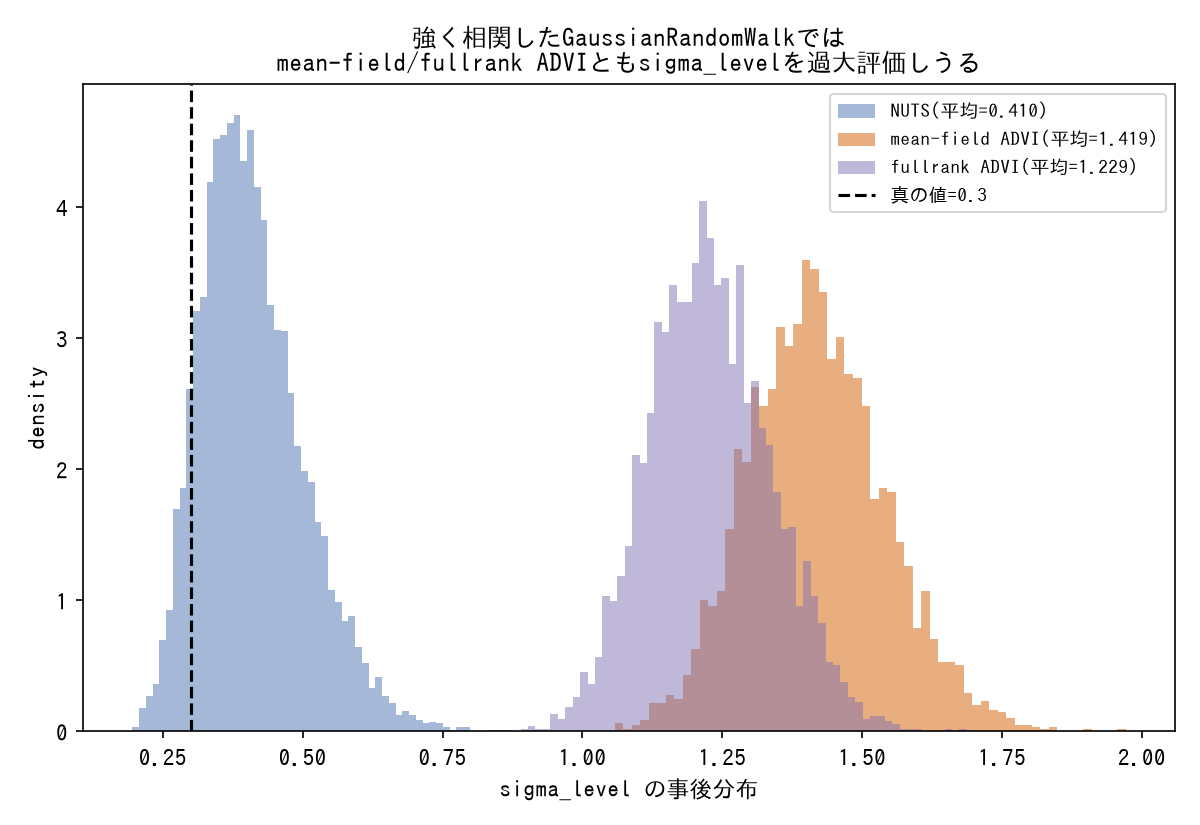
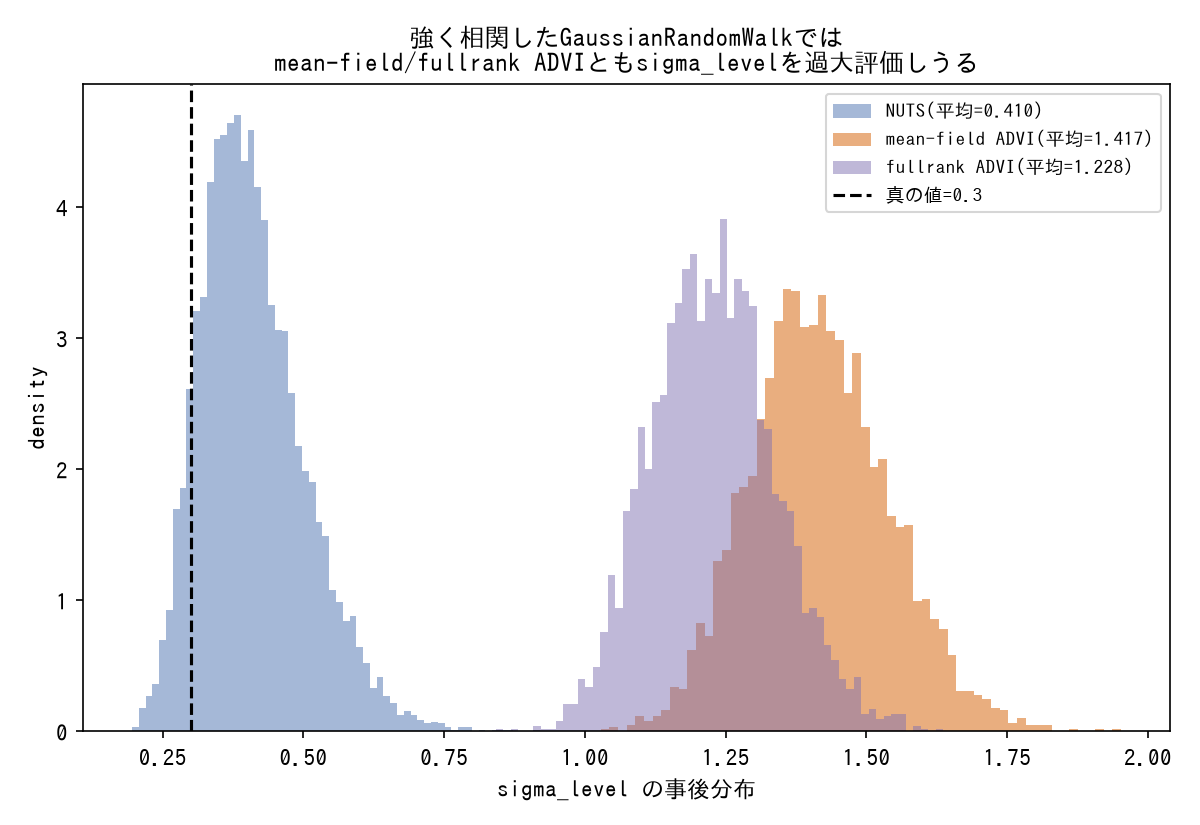
Add visualizations for exposure matrix bias, target_accept tradeoff, ecological bias
- Piecewise Exponential exposure_matrix bias: naive (last-interval-as-full-pass)
  exposure calc underestimates baseline hazard, worst in the final interval
  (true=0.35, correct=0.373, naive=0.254)
- target_accept tradeoff on Neal's funnel: 0.8->0.99 cuts divergences 20->3
  but ESS(v) drops 42->25
- Ecological bias: group-level confounder makes individual-level regression
  (group fixed effects) recover true within-group slope (-0.60 -> -0.55) while
  aggregate group-mean regression flips sign (+1.21)
- Reused existing discrete_ess_gap.png for the Compound Step entry in
  tools/inference-methods.md (no new script needed)

diff --git a/scripts/generate_implementation_hacks_plots.py b/scripts/generate_implementation_hacks_plots.py
@@ -6,6 +6,12 @@ techniques/implementation-hacks.md に埋め込む可視化画像を生成する
 トレンド)を含む状態空間モデルを、NUTS・mean-field ADVI・fullrank ADVIの
 3通りでフィットし、sigma_level(トレンドの変化幅)の事後推定を比較する。
 
+「区間ごとの滞在時間行列で累積ハザードを積算する」の実例として、Piecewise
+Exponentialモデルの exposure_matrix を正しく(打ち切り/イベント区間は端数
+だけ)計算した場合と、誤って(最後の区間も丸ごと通過したとみなして)計算
+した場合とで、各区間のベースラインハザード推定がどれだけズレるかを比較
+する。
+
 実行方法:
     source .venv/bin/activate
     python scripts/generate_implementation_hacks_plots.py
@@ -18,6 +24,7 @@ from pathlib import Path
 import matplotlib.pyplot as plt
 import numpy as np
 import pymc as pm
+import pytensor.tensor as pt
 
 from plot_style import COLOR_ALT, COLOR_CHAIN, COLOR_DIVERGENT, COLOR_OK, apply_style
 
@@ -91,5 +98,96 @@ def plot_advi_variance_inflation():
           f"mean-field平均={sigma_mf.mean():.3f}, fullrank平均={sigma_fr.mean():.3f})")
 
 
+def plot_piecewise_exponential_exposure():
+    """Piecewise Exponentialモデルで、区間ごとの滞在時間(exposure)を
+    正しく計算した場合(打ち切り/イベントが起きた最後の区間は端数だけ)と、
+    誤って計算した場合(最後の区間も丸ごと通過したとみなす)とで、
+    各区間のベースラインハザード推定がどれだけズレるかを示す。"""
+
+    rng = np.random.default_rng(11)
+    n = 600
+    breaks = np.array([0.0, 2.0, 4.0, 6.0, 8.0])
+    widths = np.diff(breaks)
+    K = len(widths)
+    true_h0 = np.array([0.05, 0.10, 0.20, 0.35])
+    beta_true = 0.4
+
+    x = rng.normal(0, 1, n)
+    hazard_ratio = np.exp(beta_true * x)
+
+    cum_H0_at_break = np.concatenate([[0.0], np.cumsum(true_h0 * widths)])
+
+    u = rng.exponential(1.0, n)
+    target = u / hazard_ratio
+    event_time = np.empty(n)
+    for i in range(n):
+        j = np.searchsorted(cum_H0_at_break, target[i], side="right") - 1
+        if j >= K:
+            event_time[i] = np.inf  # ベースラインハザードの範囲を超えて生存
+        else:
+            event_time[i] = breaks[j] + (target[i] - cum_H0_at_break[j]) / true_h0[j]
+
+    dropout = rng.uniform(0, 8, n)
+    has_dropout = rng.uniform(0, 1, n) < 0.25
+    censor_time = np.where(has_dropout, dropout, 8.0)
+
+    observed_time = np.minimum(event_time, censor_time)
+    event_ind = (event_time <= censor_time).astype(float)
+    last_interval_idx = np.clip(np.searchsorted(breaks, observed_time, side="right") - 1, 0, K - 1)
+
+    correct_exposure = np.zeros((n, K))
+    naive_exposure = np.zeros((n, K))
+    for j in range(K):
+        full_pass = observed_time >= breaks[j + 1]
+        in_interval = (observed_time > breaks[j]) & ~full_pass
+        correct_exposure[:, j] = np.where(full_pass, widths[j], 0.0)
+        correct_exposure[:, j] = np.where(in_interval, observed_time - breaks[j], correct_exposure[:, j])
+        # 誤り: 最後(打ち切り/イベント)の区間も丸ごと通過したとみなす
+        naive_exposure[:, j] = np.where(full_pass | in_interval, widths[j], 0.0)
+
+    def fit_model(exposure_matrix):
+        with pm.Model():
+            h0 = pm.Gamma("h0", alpha=2.0, beta=10.0, shape=K)
+            beta = pm.Normal("beta", 0, 1)
+            hr = pt.exp(beta * x)
+            H_i = pt.sum(exposure_matrix * h0[None, :], axis=1) * hr
+            h_at_event = h0[last_interval_idx] * hr
+            loglik = event_ind * pt.log(h_at_event) - H_i
+            pm.Potential("loglik", pt.sum(loglik))
+            idata = pm.sample(1500, tune=1500, chains=4, target_accept=0.9,
+                               random_seed=3, progressbar=False,
+                               compute_convergence_checks=False)
+        return idata
+
+    idata_correct = fit_model(correct_exposure)
+    idata_naive = fit_model(naive_exposure)
+
+    h0_correct = idata_correct.posterior["h0"].values.reshape(-1, K)
+    h0_naive = idata_naive.posterior["h0"].values.reshape(-1, K)
+
+    fig, ax = plt.subplots(figsize=(8, 5.5))
+    x_pos = np.arange(K)
+    width_bar = 0.25
+    ax.bar(x_pos - width_bar, true_h0, width=width_bar, color="black", alpha=0.7, label="真値")
+    ax.bar(x_pos, h0_correct.mean(axis=0), width=width_bar, color=COLOR_OK,
+           yerr=h0_correct.std(axis=0), capsize=3, label="正しいexposure_matrix")
+    ax.bar(x_pos + width_bar, h0_naive.mean(axis=0), width=width_bar, color=COLOR_DIVERGENT,
+           yerr=h0_naive.std(axis=0), capsize=3, label="誤ったexposure_matrix(最後の区間も丸ごと通過扱い)")
+    ax.set_xticks(x_pos)
+    ax.set_xticklabels([f"区間{j}\n[{breaks[j]:.0f},{breaks[j+1]:.0f})" for j in range(K)])
+    ax.set_ylabel("ベースラインハザード h0")
+    ax.set_title("exposure_matrixの誤り(最後の区間を丸ごと通過扱い)は\n区間ごとのハザード推定を過小評価させる")
+    ax.legend(fontsize=8.5)
+    fig.tight_layout()
+    fig.savefig(OUT_DIR / "piecewise_exponential_exposure.png")
+    plt.close(fig)
+
+    print("piecewise_exponential_exposure.png saved "
+          f"(真値={true_h0.tolist()}, "
+          f"correct={h0_correct.mean(axis=0).round(3).tolist()}, "
+          f"naive={h0_naive.mean(axis=0).round(3).tolist()})")
+
+
 if __name__ == "__main__":
     plot_advi_variance_inflation()
+    plot_piecewise_exponential_exposure()

diff --git a/scripts/generate_mcmc_diagnostics_plots.py b/scripts/generate_mcmc_diagnostics_plots.py
@@ -5,6 +5,9 @@ tools/mcmc-diagnostics.md に埋め込む可視化画像を生成するスクリ
 Compound StepでMetropolis法が使われる)のESSが連続変数(Poisson率)より
 低くなりやすいことを描画する。
 
+また、Neal's funnel(急峻に曲がった事後分布)をtarget_accept=0.8/0.99の
+2通りでサンプリングし、divergence数とESSがどうトレードオフするかを描画する。
+
 実行方法:
     source .venv/bin/activate
     python scripts/generate_mcmc_diagnostics_plots.py
@@ -78,5 +81,59 @@ def plot_discrete_ess_gap():
           f"lambda2={ess_l2:.0f}, total_draws={total_draws})")
 
 
+def plot_target_accept_tradeoff():
+    """Neal's funnel(急峻に曲がった事後分布)をtarget_accept=0.8/0.99の
+    2通りでサンプリングし、divergence数の減少とESSの変化を比較する。"""
+
+    D = 9
+
+    def build_model():
+        with pm.Model() as model:
+            v = pm.Normal("v", 0, 3)
+            pm.Normal("x", 0, pt.exp(v / 2), shape=D)
+        return model
+
+    results = {}
+    for ta in [0.8, 0.99]:
+        model = build_model()
+        with model:
+            idata = pm.sample(2000, tune=1500, chains=4, target_accept=ta,
+                               random_seed=5, progressbar=False,
+                               compute_convergence_checks=False)
+        n_div = int(idata.sample_stats["diverging"].sum())
+        ess_v = float(az.ess(idata, var_names=["v"])["v"].values)
+        results[ta] = (n_div, ess_v)
+
+    fig, axes = plt.subplots(1, 2, figsize=(10, 5))
+    tas = [0.8, 0.99]
+    divs = [results[ta][0] for ta in tas]
+    esss = [results[ta][1] for ta in tas]
+    colors = [COLOR_ALT, COLOR_OK]
+
+    axes[0].bar([str(ta) for ta in tas], divs, color=colors, alpha=0.85)
+    axes[0].set_xlabel("target_accept")
+    axes[0].set_ylabel("divergence数(全chain合計)")
+    axes[0].set_title("divergence数")
+    for i, d in enumerate(divs):
+        axes[0].text(i, d, f"{d}", ha="center", va="bottom", fontsize=10)
+
+    axes[1].bar([str(ta) for ta in tas], esss, color=colors, alpha=0.85)
+    axes[1].set_xlabel("target_accept")
+    axes[1].set_ylabel("ESS (v, ess_bulk)")
+    axes[1].set_title("ESS")
+    for i, e in enumerate(esss):
+        axes[1].text(i, e, f"{e:.0f}", ha="center", va="bottom", fontsize=10)
+
+    fig.suptitle("Neal's funnelでtarget_accept=0.8→0.99にすると\n"
+                  f"divergenceは{divs[0]}→{divs[1]}に減るが、ESSは{esss[0]:.0f}→{esss[1]:.0f}")
+    fig.tight_layout()
+    fig.savefig(OUT_DIR / "target_accept_tradeoff.png")
+    plt.close(fig)
+    print(f"target_accept_tradeoff.png saved "
+          f"(0.8: divergence={divs[0]}, ess={esss[0]:.0f} / "
+          f"0.99: divergence={divs[1]}, ess={esss[1]:.0f})")
+
+
 if __name__ == "__main__":
     plot_discrete_ess_gap()
+    plot_target_accept_tradeoff()

diff --git a/techniques/implementation-hacks.md b/techniques/implementation-hacks.md
@@ -111,6 +111,10 @@ PyMC/ArviZ/JAX/pytensor固有のバグ回避・キャストなど、統計的方
 
 ### 区間ごとの滞在時間行列で累積ハザードを積算する
 
+![exposure_matrixの誤り(最後の区間も丸ごと通過したとみなす)は、各区間のベースラインハザード推定を過小評価させる。特に最後の区間(真値0.35)で正しいexposure_matrixの推定0.373に対し誤ったものは0.254と最も大きくズレる](../assets/implementation-hacks/piecewise_exponential_exposure.png)
+
+*PyMCで実際に2種類のPiecewise Exponentialモデル(正しいexposure_matrix/誤ったexposure_matrix)をフィットし、各区間のベースラインハザードh0の事後平均を比較した結果(生成スクリプト: [scripts/generate_implementation_hacks_plots.py](../scripts/generate_implementation_hacks_plots.py))。*
+
 - **症状**: Piecewise Exponentialモデルで、各対象が実際に通過した時間区間ごとのベースラインハザードを正しく積算する必要がある(完全通過した区間と、途中で終わる最後の区間とで扱いが異なる)。
 - **対処**: 各対象 × 各区間の滞在時間(完全通過なら区間幅、最後の区間なら端数)を表す行列 `exposure_matrix` を構築し、`H_i = pt.dot(exposure_matrix, h0) * hazard_ratio` で累積ハザードを積算してから対数尤度を計算する。
 - **登場プロジェクト**: [bayesian-hazard-models](https://github.com/karahashimanato/bayesian-hazard-models/blob/main/README.md#診断実装における重要ハック)

diff --git a/tools/inference-methods.md b/tools/inference-methods.md
@@ -24,6 +24,10 @@
 
 ### Compound Step
 
+![変化点モデル: 離散変数tau(Compound StepでMetropolis法)のESSは連続変数lambda1/lambda2(NUTS)の約6分の1(2290 vs 14865/13439、総draws数16000)](../assets/mcmc-diagnostics/discrete_ess_gap.png)
+
+*PyMCで実際にサンプリングした結果(Poisson変化点モデル、離散パラメータtauと連続パラメータlambda1,lambda2を比較。生成スクリプト: [scripts/generate_mcmc_diagnostics_plots.py](../scripts/generate_mcmc_diagnostics_plots.py))。詳細は[tools/mcmc-diagnostics.md](mcmc-diagnostics.md#ess-effective-sample-size)を参照。*
+
 - **定義**: PyMCが、1つのモデルの中に離散変数と連続変数が混在する場合に自動的に採用する、変数の種類ごとに異なるサンプラーを組み合わせる仕組み。
 - **数式・仕組み**: 連続変数には[NUTS](#nuts-no-u-turn-sampler)、離散変数にはMetropolis法を個別に割り当て、1イテレーション内で両方のステップを順に実行する。
 - **使い分け**: 離散パラメータ(変化点の位置など)を含むモデルで自動的に発動する。Metropolisはランダムウォーク的な提案のため自己相関が強く、同じサンプル数でも離散変数のESSが連続変数より1桁近く低くなりやすい。離散変数を連続変数に緩和できれば(シグモイド近似など)NUTSのみでサンプリングでき、この問題を回避できる([tools/mcmc-diagnostics.md](mcmc-diagnostics.md#ess-effective-sample-size)参照)。
